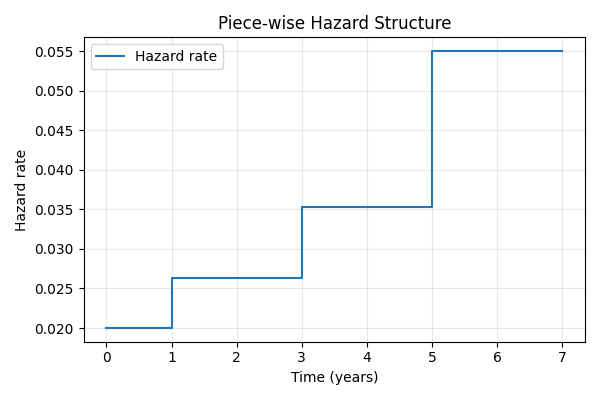
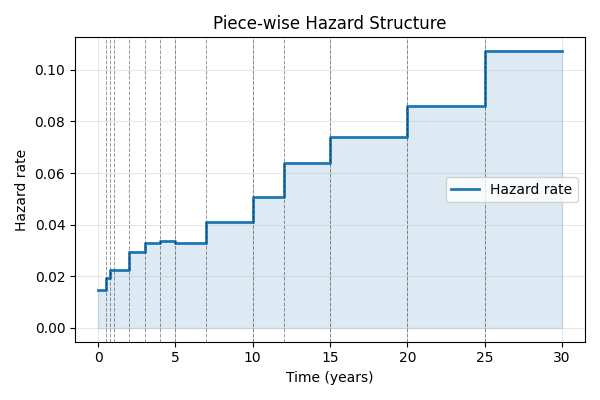
improved plots

diff --git a/examples/generate_plots.py b/examples/generate_plots.py
@@ -22,7 +22,7 @@ from cds_calibration.plots import (
 from cds_calibration.reporting import par_reconciliation, price_quotes
 from cds_calibration.valuation import CDSQuote, par_spread
 
-DEFAULT_CONFIG = Path(__file__).with_name("sample_quotes.yaml")
+DEFAULT_CONFIG = Path(__file__).with_name("advanced_curve_quotes.yaml")
 DEFAULT_PLOT_DIR = Path("plots/extended")
 
 

diff --git a/examples/extended_run.py b/examples/extended_run.py
@@ -25,7 +25,7 @@ from cds_calibration.reporting import (
     price_quotes,
 )
 
-CONFIG_PATH = Path(__file__).with_name("sample_quotes.yaml")
+CONFIG_PATH = Path(__file__).with_name("advanced_curve_quotes.yaml")
 ANSI_GREEN = "\033[92m"
 ANSI_RED = "\033[91m"
 ANSI_CYAN = "\033[96m"
